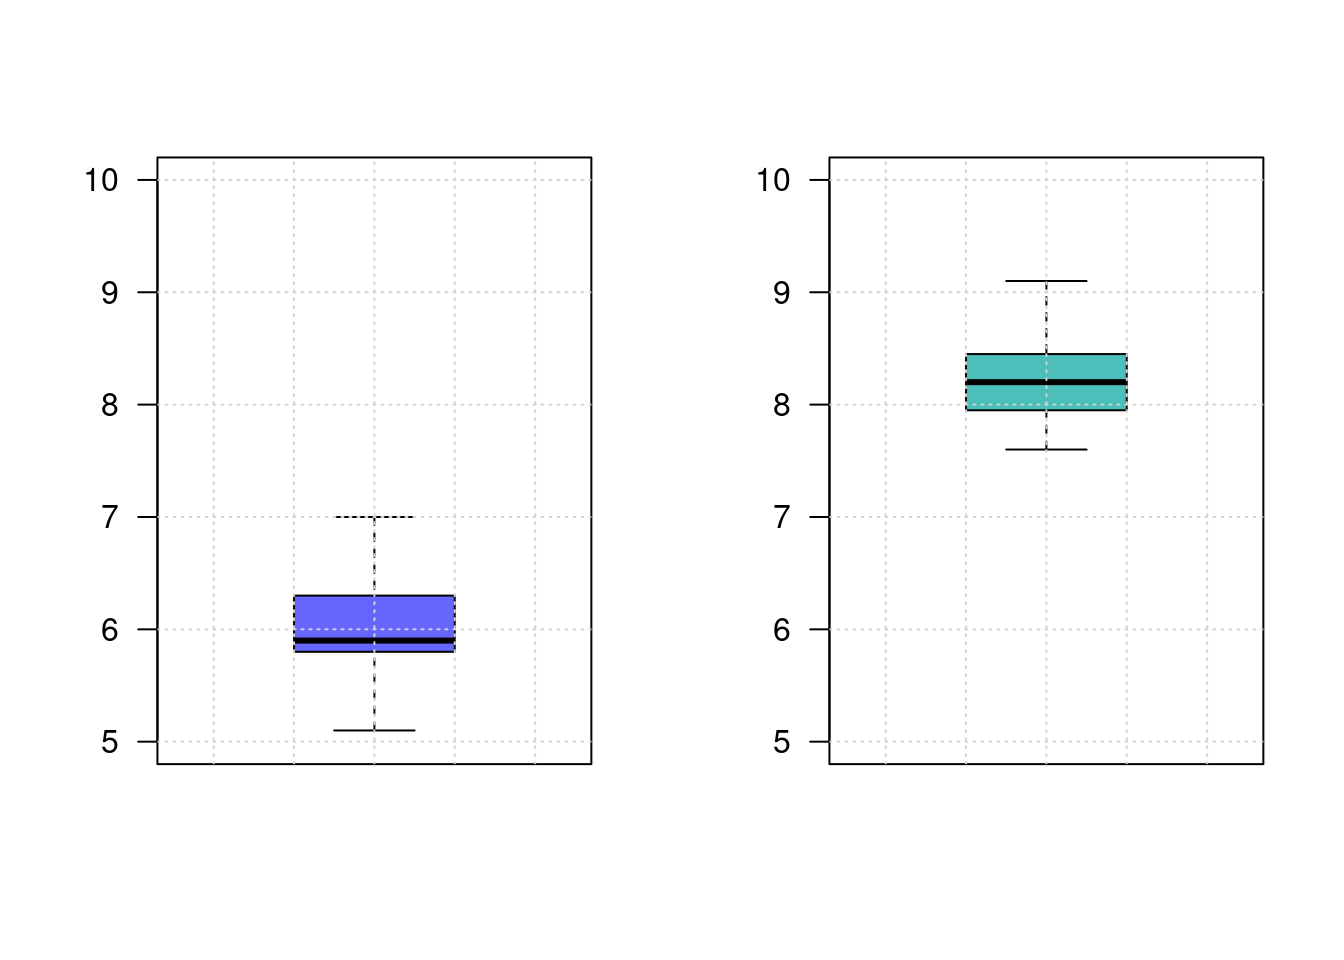
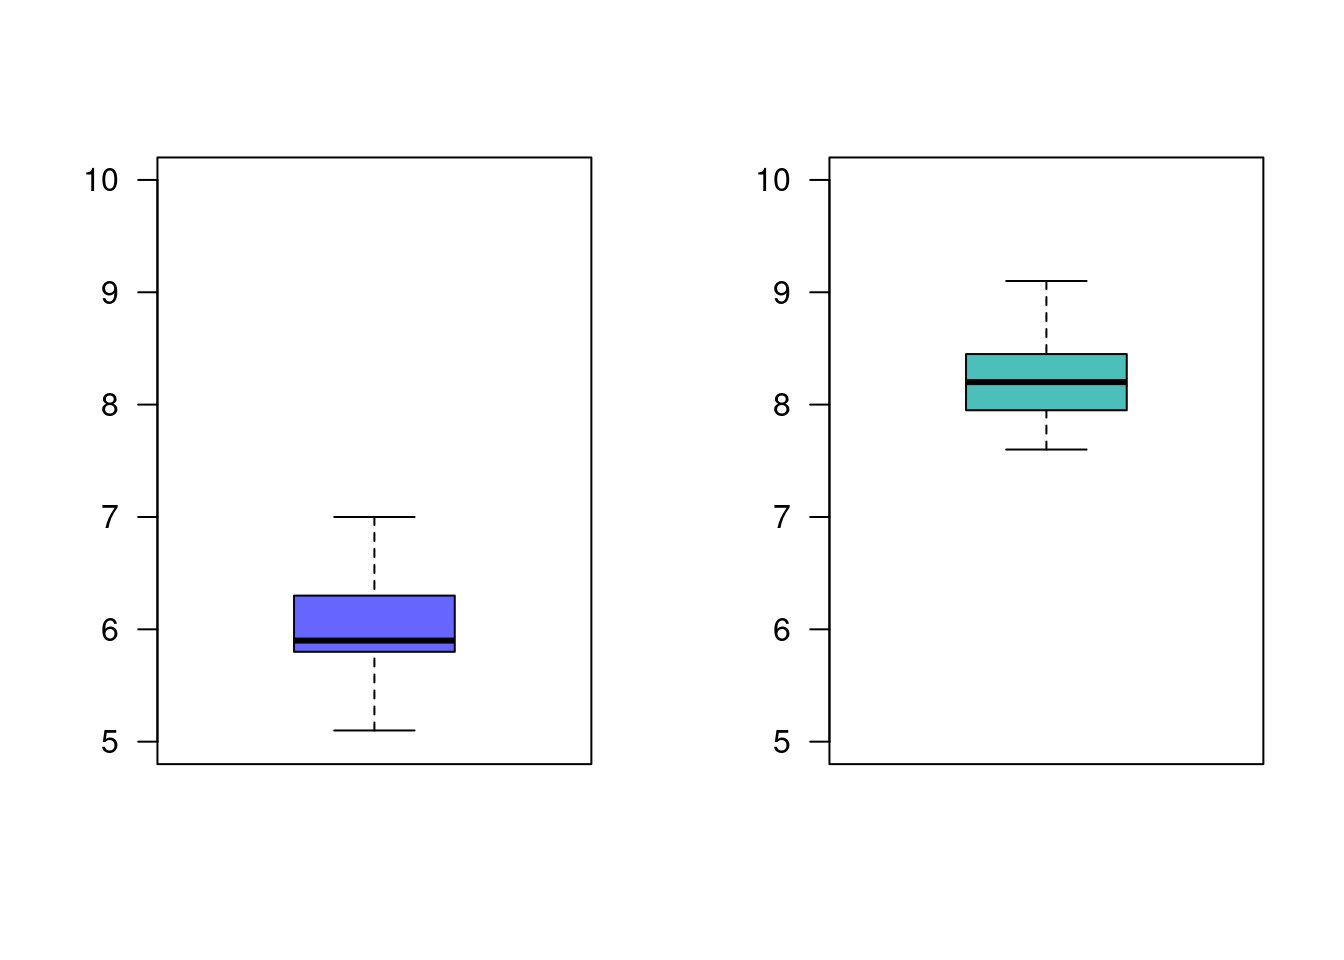
ajuste codigo prueba signos guia 4.3

diff --git a/Guia403.html b/Guia403.html
@@ -1122,8 +1122,8 @@ mean of the differences
 grupo2=c(8.8, 8.5, 8.4, 8.5, 7.6, 8.7, 8.0, 7.9, 8.2, 8.0, 7.8, 8.6, 8.5, 7.9, 8.5, 8.3, 8.4, 8.2, 8.3, 7.9, 8.2, 7.7, 7.8, 7.7, 8.1, 8.0, 8.3, 8.2, 8.1, 8.3, 8.1, 8.8, 7.7, 9.1, 7.6, 8.4, 8.2, 8.3, 8.1, 8.7)
 
 par(mfrow = c(1, 2))
-boxplot(grupo1, las=1, col=c2, ylim=c(5,10)); grid()
-boxplot(grupo2, las=1, col=c3, ylim=c(5,10)); grid()</code></pre>
+boxplot(grupo1, las=1, col=c2, ylim=c(5,10))
+boxplot(grupo2, las=1, col=c3, ylim=c(5,10))</code></pre>
 <p><img src="Guia403_files/figure-html/unnamed-chunk-11-1.png" width="672" /></p>
 <p>Iniciaremos con una prueba de hipótesis para la comparación de varianzas:</p>
 <p>Ho:<span class="math inline">\(\sigma^{2}_{1} = \sigma^{2}_{2}\)</span><br/> Ho:<span class="math inline">\(\sigma^{2}_{1} \neq \sigma^{2}_{2}\)</span><br/></p>
@@ -1185,8 +1185,8 @@ mean of x mean of y
 <pre class="r"><code>grupo3=c(8.4, 7.5, 6.9, 6.6, 7.0, 5.5, 5.5, 7.9, 6.9, 7.3, 4.7, 5.5, 6.7, 8.3, 6.0, 6.3, 5.5, 8.4, 7.1, 5.3, 6.9, 5.5, 7.2, 6.5, 6.1, 7.8, 7.4, 6.6, 6.8, 6.0, 6.9, 7.4, 4.9, 6.2, 7.3, 6.2)
 grupo2=c(8.8, 8.5, 8.4, 8.5, 7.6, 8.7, 8.0, 7.9, 8.2, 8.0, 7.8, 8.6, 8.5, 7.9, 8.5, 8.3, 8.4, 8.2, 8.3, 7.9, 8.2, 7.7, 7.8, 7.7, 8.1, 8.0, 8.3, 8.2, 8.1, 8.3, 8.1, 8.8, 7.7, 9.1, 7.6, 8.4, 8.2, 8.3, 8.1, 8.7)
 par(mfrow = c(1, 2))
-boxplot(grupo3, las=1, col=c2, ylim=c(5,10)); grid()
-boxplot(grupo2, las=1, col=c3, ylim=c(5,10)); grid()</code></pre>
+boxplot(grupo3, las=1, col=c2, ylim=c(5,10))
+boxplot(grupo2, las=1, col=c3, ylim=c(5,10))</code></pre>
 <p><img src="Guia403_files/figure-html/unnamed-chunk-14-1.png" width="672" /></p>
 <pre class="r"><code>var.test(grupo3,grupo2)</code></pre>
 <pre><code>
@@ -1346,7 +1346,7 @@ prop 1 prop 2
 </tr>
 </tbody>
 </table>
-<pre class="r"><code>x=c(16, 15, 12, 17, 18, 14, 16, 14, 16,  17, 19, 16,  14, 21, 20, 16, 16, 16 )</code></pre>
+<pre class="r"><code>x.img=c(16, 15, 12, 17, 18, 14, 16, 14, 16,  17, 19, 16,  14, 21, 20, 16, 16, 16 )</code></pre>
 <p><strong>Solución</strong>:</p>
 <p>Hipótesis Nula Ho: Me = 15 Hipótesis Alterna Ha: Me 15 ó Ha : Me &gt; 15 Estadístico de Prueba : M + : Numero de signos positivos</p>
 <table>
@@ -1396,6 +1396,32 @@ prop 1 prop 2
 <p>M+ = 13 Regla de Decisión (Distribución Binomial p=0.5 n= 17) <span class="math inline">\(P(X\leq 13) = 1-0.9755 = 0.0245\)</span> ( valor-p)</p>
 <p><strong>Conclusión</strong>:</p>
 <p>Se rechaza la hipótesis nula, se acepta la hipótesis alterna. Se puede afirmar que las personas tienen la creencia que el deporte afecta positivamente su imagen.</p>
+<pre class="r"><code>library(BSDA)</code></pre>
+<pre><code>Loading required package: lattice</code></pre>
+<pre><code>
+Attaching package: &#39;BSDA&#39;</code></pre>
+<pre><code>The following object is masked from &#39;package:datasets&#39;:
+
+    Orange</code></pre>
+<pre class="r"><code>SIGN.test(x.img,md=15,alternative = &quot;greater&quot;)</code></pre>
+<pre><code>
+    One-sample Sign-Test
+
+data:  x.img
+s = 13, p-value = 0.02452
+alternative hypothesis: true median is greater than 15
+95 percent confidence interval:
+  16 Inf
+sample estimates:
+median of x 
+         16 
+
+Achieved and Interpolated Confidence Intervals: 
+
+                  Conf.Level L.E.pt U.E.pt
+Lower Achieved CI     0.8811     16    Inf
+Interpolated CI       0.9500     16    Inf
+Upper Achieved CI     0.9519     16    Inf</code></pre>
 <p><br/><br/></p>
 </div>
 <div id="chi2-de-bondad-de-ajuste" class="section level2">
@@ -1700,7 +1726,8 @@ X-squared = 3.7378, df = 2, p-value = 0.1543</code></pre>
 </tbody>
 </table>
 <p>Nota: Antes de realizar la comparación de medias se debe realizar una prueba chi-cuadrado de bondad de ajuste para determinar si los datos siguen una distribución normal o no. En caso de que los datos no tengan una distribución aproximadamente normal entonces se debe realizar la prueba de signos.</p>
-<p>Conclusión : Se rechaza Ho , se acepta Ha. Se puede concluir que las dos poblaciones son diferentes. por lo tanto las medias son diferentes.</p>
+<p><strong>Conclusión</strong> :</p>
+<p>Se rechaza Ho , se acepta Ha. Se puede concluir que las dos poblaciones son diferentes. por lo tanto las medias son diferentes.</p>
 <p>Para analizar cual de los grupos presenta un mayor consumo de calorías, se observa que el Grupo I tiene suma de rangos de 168 y el Grupo II tiene suma de rangos de 273, lo que indica que los datos del Grupo I tienen valores menores en que los del Grupo II</p>
 <p>Por lo tanto los estudiantes sanos presentan consumo de calorías menores que los estudiantes que padecen de bulimia.</p>
 <p><br/><br/></p>
@@ -1833,6 +1860,7 @@ alternative hypothesis: true rho is not equal to 0
 sample estimates:
       rho 
 0.8139814 </code></pre>
+<p>En este caso se utiliza el coeficiente de correlación de Sperman para valorar la relación entre las variables debido a que la nota es una variable que podriamos llamar cualitativa, operacionalizada cantitativa con una nota.</p>
 <p><br/><br/></p>
 </div>
 <div id="de-rachas" class="section level2">
@@ -1857,8 +1885,8 @@ runs.test(y)</code></pre>
     Runs Test
 
 data:  y
-statistic = -0.40204, runs = 49, n1 = 50, n2 = 50, n = 100, p-value =
-0.6877
+statistic = -2.4122, runs = 39, n1 = 50, n2 = 50, n = 100, p-value =
+0.01586
 alternative hypothesis: nonrandomness</code></pre>
 <p><strong>Conclusión</strong></p>
 <p>Como el valor-p (0.3149) es mayor al nivel de significancia, no se rechaza la hipótesis nula, no existe suficiente evidencia en la muestra que permita rechazarla, asumimos que los datos son aleatorios.</p>
@@ -1878,7 +1906,7 @@ plot(density(x), main=&quot; &quot;, las=1)</code></pre>
     Shapiro-Wilk normality test
 
 data:  x
-W = 0.99516, p-value = 0.7725</code></pre>
+W = 0.99726, p-value = 0.9804</code></pre>
 <p>Esta prueba no requiere la instalación de paquetes adicionales, pues está disponible en la configuración básica de R</p>
 <p>Como el valor-p es superior al nivel de significancia <span class="math inline">\(\alpha\)</span>, no se rechaza <span class="math inline">\(Ho\)</span>, se asume que la distribución de la variable es normal.</p>
 <p>Otras pruebas de normalidad utilizadas con frecuencia son:</p>
@@ -1890,19 +1918,19 @@ jb.norm.test(x)  # Test de normalidad de Jarque-Bera</code></pre>
     Jarque-Bera test for normality
 
 data:  x
-JB = 1.1848, p-value = 0.512</code></pre>
+JB = 0.30502, p-value = 0.844</code></pre>
 <pre class="r"><code>kurtosis.norm.test(x)</code></pre>
 <pre><code>
     Kurtosis test for normality
 
 data:  x
-T = 2.6232, p-value = 0.2555</code></pre>
+T = 2.8457, p-value = 0.626</code></pre>
 <pre class="r"><code>skewness.norm.test(x)   </code></pre>
 <pre><code>
     Skewness test for normality
 
 data:  x
-T = 0.0070795, p-value = 0.9645</code></pre>
+T = 0.056522, p-value = 0.711</code></pre>
 <pre class="r"><code># install.packages(&quot;nortets&quot;)
 library(nortest)
 
@@ -1911,13 +1939,13 @@ lillie.test(x) # Kolmogorov-Smirnov</code></pre>
     Lilliefors (Kolmogorov-Smirnov) normality test
 
 data:  x
-D = 0.030974, p-value = 0.9111</code></pre>
+D = 0.029757, p-value = 0.9363</code></pre>
 <pre class="r"><code>pearson.test(x) # chi-cuadrado de Pearson</code></pre>
 <pre><code>
     Pearson chi-square normality test
 
 data:  x
-P = 12.84, p-value = 0.5392</code></pre>
+P = 12.33, p-value = 0.5798</code></pre>
 <p><br/><br/></p>
 <p><br/><br/><br/><br/></p>
 </div>
@@ -2069,7 +2097,9 @@ P = 12.84, p-value = 0.5392</code></pre>
 </tbody>
 </table>
 <p><br/><br/></p>
-<p>#<strong>Código R</strong></p>
+</div>
+<div id="código-r" class="section level1">
+<h1><strong>Código R</strong></h1>
 <table>
 <tbody>
 <tr class="odd">
@@ -2271,7 +2301,7 @@ P = 12.84, p-value = 0.5392</code></pre>
 </table>
 </div>
 <div id="video" class="section level1">
-<h1><span style="color:#E77C00"><strong>Video</strong></span></h1>
+<h1><strong>Video</strong></h1>
 <iframe width="560" height="315" src="https://www.youtube.com/embed/phUkdjdj95c" title="YouTube video player" frameborder="0" allow="accelerometer; autoplay; clipboard-write; encrypted-media; gyroscope; picture-in-picture" allowfullscreen>
 </iframe>
 </div>
